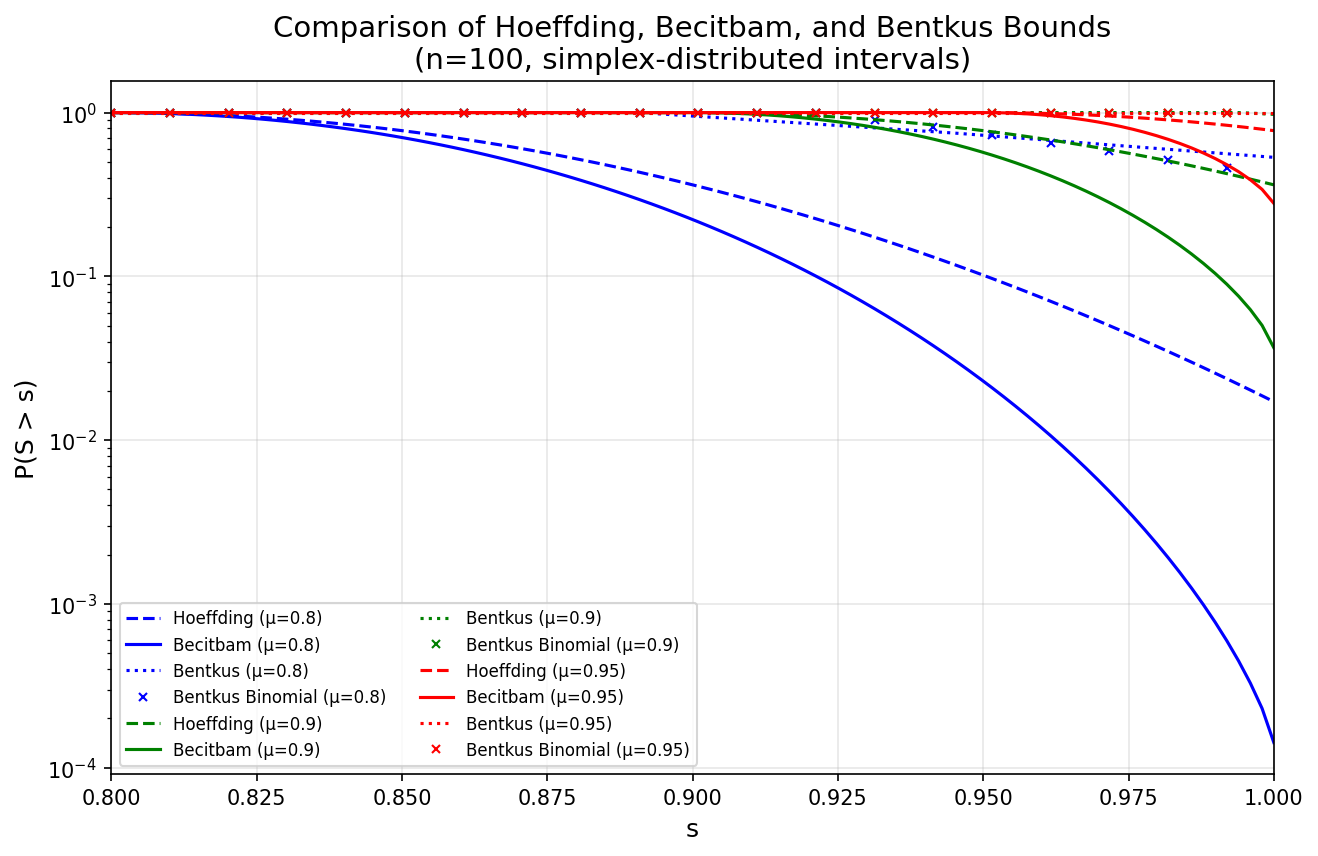
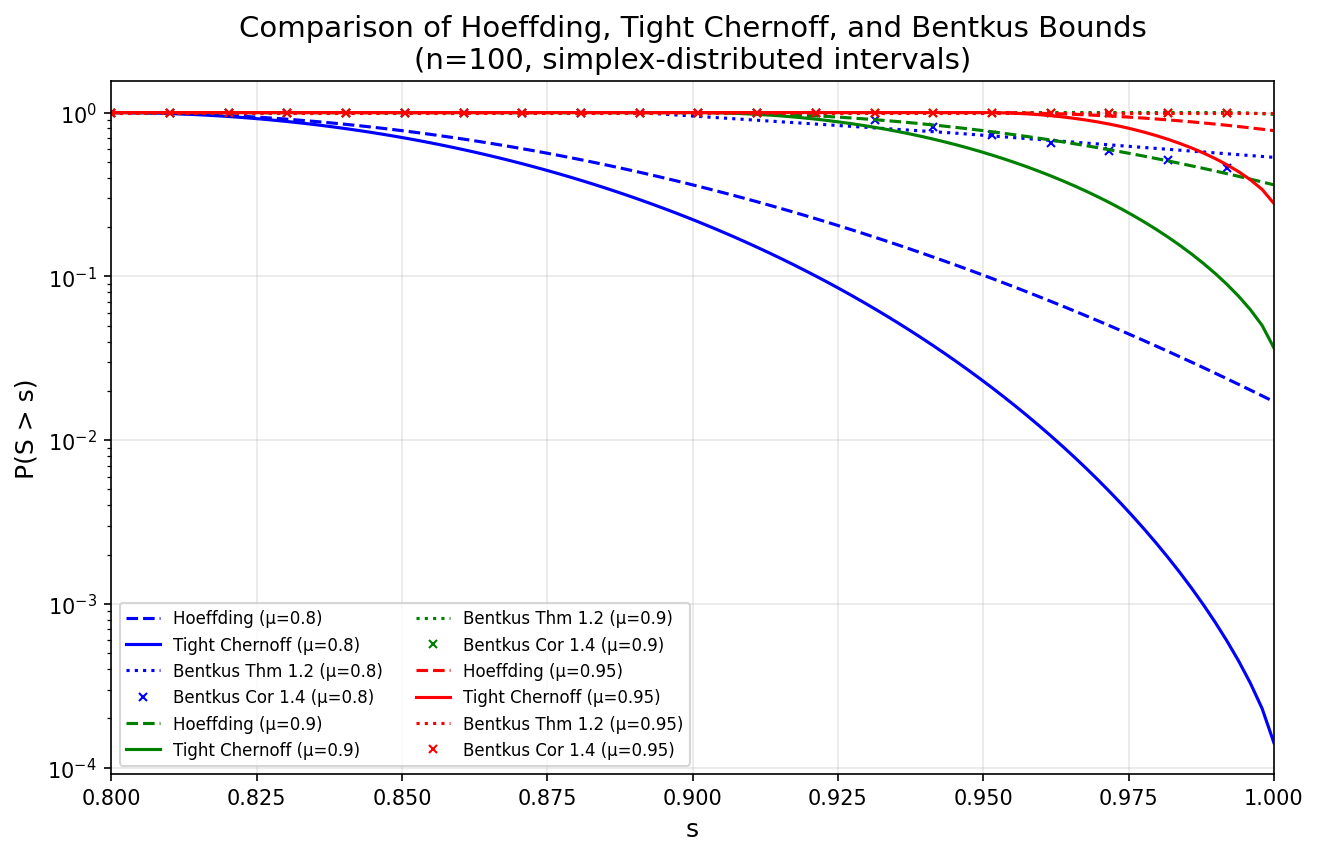
Rename labels: Becitbam→Tight Chernoff, Bentkus→Thm 1.2/Cor 1.4, update manuscript lit review

diff --git a/manuscript/main.tex b/manuscript/main.tex
@@ -71,7 +71,7 @@ We refer to Equation~\ref{eq:hoeffspecial} as the ``specialized Hoeffding inequa
 
 Several authors have proposed refinements to Hoeffding's inequality.  \citet{from2013refinement} and \citet{hertz2020improved} provide improved bounds by exploiting additional information about the distributions of the individual random variables.  However, to construct these improved bounds, it is necessary to know the per-variable means $\mathbb{E}[X_i]$ for each variable $i$.  In contrast, the bound we propose here requires only the overall mean $\mu = \sum_{i=1}^n \mathbb{E}[X_i]$, which is often the only quantity known or estimated in practice.
 
-\citet{bentkus2004hoeffding} establishes another refinement of Hoeffding's inequality that compares tail probabilities to those of a binomial distribution.  This approach requires all bounding intervals to be of the same size, i.e., $b_i = b$ for all $i$.  When the intervals are heterogeneous, the Bentkus bound can still be applied by rescaling all variables to lie within $[0, \max_i b_i]$, though this may result in a looser bound.  We include comparisons with the Bentkus bound in our simulations.
+\citet{bentkus2004hoeffding} establishes two refinements of Hoeffding's inequality that compare tail probabilities to those of binomial-type distributions.  Theorem 1.2 requires all bounding intervals to be of the same size, i.e., $b_i = b$ for all $i$, and compares to a scaled Binomial$(n, p)$ distribution.  When the intervals are heterogeneous, Theorem 1.2 can still be applied by rescaling all variables to lie within $[0, \max_i b_i]$, though this may result in a looser bound.  Corollary 1.4 offers an alternative approach using a symmetric Bernoulli comparison with RMS scale $\sqrt{\sum_i b_i^2/n}$, but it requires knowledge of each variable's centering, i.e., $|X_i - \mathbb{E}[X_i]| \leq b_i$.  Neither variant directly handles the general case of heterogeneous intervals with only the overall mean $\mu$ known.  We include comparisons with both Bentkus bounds in our simulations.
 
 In this article, we propose a computable bound for the sum of independent random variables for situations in which the expected value of the sum is known and each random variable is known to lie in a fixed interval of arbitrary size, which may differ among variables.  Such bounds are useful for hypothesis testing regarding the sum's expected value based on an observed realization.  The new bound can be calculated by solving a two-dimensional convex optimization problem.  The result reduces to Equation~\ref{eq:hoeffspecial} in the special case that $b_i=1$ for each $i \in \{1,\ldots,n\}$.  We use simulations to demonstrate that the new bound can be much tighter than the general Hoeffding inequality in situations where both are applicable and the specialized Hoeffding inequality is not.
 
@@ -154,27 +154,27 @@ This theorem suggests two methods for computing $\varphi^*$.  One method involve
 \begin{center}
 \includegraphics[width=5in]{comparisons/dirichlet_100.png}
   \caption{
-  Comparison of bounds for heterogeneous intervals.  We consider three choices of fixed expected value, $\mu \in \{0.8, 0.9, 0.95\}$.  We compare the general Hoeffding inequality \citep[Theorem 2]{hoeffding_probability_1963} (dashed lines), our new bounds (solid lines, calculated using Theorem~\ref{thm:lowd}), and the Bentkus bound \citep{bentkus2004hoeffding} (dotted lines).  Since the Bentkus bound requires homogeneous intervals, we apply it by rescaling all variables to lie within $[0, \max_i b_i]$.  Our new bound substantially outperforms both the general Hoeffding inequality and the rescaled Bentkus bound in the heterogeneous case.
+  Comparison of bounds for heterogeneous intervals.  We consider three choices of fixed expected value, $\mu \in \{0.8, 0.9, 0.95\}$.  We compare the general Hoeffding inequality \citep[Theorem 2]{hoeffding_probability_1963} (dashed lines), our new Tight Chernoff bounds (solid lines, calculated using Theorem~\ref{thm:lowd}), Bentkus Theorem 1.2 \citep{bentkus2004hoeffding} (dotted lines), and Bentkus Corollary 1.4 (×~markers).  Since Bentkus Theorem 1.2 requires homogeneous intervals, we apply it by rescaling all variables to lie within $[0, \max_i b_i]$.  Bentkus Corollary 1.4 uses RMS scale but requires centering information.  Our Tight Chernoff bound substantially outperforms both the general Hoeffding inequality and the Bentkus bounds in the heterogeneous case.
   }\label{fig:tailboundcomparisons}
 \end{center}
 \end{figure}
 
 We use simulations to assess the degree of improvement over the general Hoeffding inequality.  First, we sample a vector of interval lengths, $\boldsymbol{b} \in \mathbb{R}^{200}$, uniformly at random from the set of lengths such that $B=\sum_{i=1}^{100} b_i=1$.  We define $S$ to be the sum of 200 independent random variables, $(X_1,\ldots,X_{200})$, where each $X_i$ is constrained to the interval $[0,b_i]$ for $i\in \{1,\ldots,200\}$.  
 
-For any fixed value of $\mu$ and any value $s \geq \mu$, our new results provide an upper bound on $\mathbb{P}(S>s)$, assuming $\mathbb{E}[S]=\mu$.  The general Hoeffding inequality can also be used to produce a bound on $\mathbb{P}(S>s)$, offering a natural point of comparison.  We also compare with the Bentkus bound \citep{bentkus2004hoeffding}, which requires all bounding intervals to be of the same size.  To apply the Bentkus bound to heterogeneous intervals, we rescale all variables so that they lie within $[0, \max_i b_i]$.  These bounds on $\mathbb{P}(S>s)$ have practical implications, such as facilitating hypothesis testing for $\mathbb{E}[S]=\mu$ given an observed realization of $S$.
+For any fixed value of $\mu$ and any value $s \geq \mu$, our new results provide an upper bound on $\mathbb{P}(S>s)$, assuming $\mathbb{E}[S]=\mu$.  The general Hoeffding inequality can also be used to produce a bound on $\mathbb{P}(S>s)$, offering a natural point of comparison.  We also compare with the two Bentkus bounds \citep{bentkus2004hoeffding}: Theorem 1.2 requires all bounding intervals to be of the same size, while Corollary 1.4 uses RMS scale but requires centering information.  To apply Theorem 1.2 to heterogeneous intervals, we rescale all variables so that they lie within $[0, \max_i b_i]$.  For Corollary 1.4, we apply it using only the overall centering $S - \mu$.  These bounds on $\mathbb{P}(S>s)$ have practical implications, such as facilitating hypothesis testing for $\mathbb{E}[S]=\mu$ given an observed realization of $S$.
 
-Figure~\ref{fig:tailboundcomparisons} compares our new bounds with the general Hoeffding inequality and the rescaled Bentkus bound for $\mu \in \{0.8, 0.9, 0.95\}$, showing how they vary as a function of $s$. In many cases, our bounds are orders of magnitude tighter than those derived from the general Hoeffding inequality, demonstrating their advantage in tail estimation.  The Bentkus bound, when applied via rescaling to the heterogeneous case, does not perform as well as our method because it effectively treats all intervals as having the maximum width.
+Figure~\ref{fig:tailboundcomparisons} compares our new Tight Chernoff bounds with the general Hoeffding inequality and both Bentkus bounds for $\mu \in \{0.8, 0.9, 0.95\}$, showing how they vary as a function of $s$. In many cases, our bounds are orders of magnitude tighter than those derived from the general Hoeffding inequality, demonstrating their advantage in tail estimation.  Neither Bentkus bound performs as well as our method in the heterogeneous case: Theorem 1.2 effectively treats all intervals as having the maximum width, while Corollary 1.4 has a larger multiplicative constant and does not fully exploit the heterogeneity.
 
 \begin{figure}
 \begin{center}
 \includegraphics[width=5in]{comparisons/homogen_100.png}
   \caption{
-  Comparison of bounds for homogeneous intervals.  When all variables share the same bounding interval $[0,1]$, the specialized Hoeffding inequality (Equation~\ref{eq:hoeffspecial}) applies.  We compare the general Hoeffding inequality (``Hoeffding $\Sigma a^2$''), the specialized Hoeffding inequality (``Hoeffding KL''), our new bounds, and the Bentkus bound \citep{bentkus2004hoeffding}.  Our new bounds match the specialized Hoeffding inequality, as expected from Theorem~\ref{thm:lowd}.  Both our bounds and the Bentkus bound substantially outperform the general Hoeffding inequality.  In this homogeneous setting, all three refined methods---the specialized Hoeffding inequality, the Bentkus bound, and our new bounds---provide much tighter bounds than the general Hoeffding inequality.
+  Comparison of bounds for homogeneous intervals.  When all variables share the same bounding interval $[0,1]$, the specialized Hoeffding inequality (Equation~\ref{eq:hoeffspecial}) applies.  We compare the general Hoeffding inequality (``Hoeffding $\Sigma a^2$''), the specialized Hoeffding inequality (``Hoeffding KL''), our new Tight Chernoff bounds, Bentkus Theorem 1.2, and Bentkus Corollary 1.4.  Our Tight Chernoff bounds match the specialized Hoeffding inequality, as expected from Theorem~\ref{thm:lowd}.  In this homogeneous setting, the specialized Hoeffding inequality, the Bentkus Theorem 1.2 bound, and our Tight Chernoff bounds all provide much tighter bounds than the general Hoeffding inequality.  Bentkus Corollary 1.4 is less tight here due to its larger multiplicative constant ($2e^3/9 \approx 4.46$ vs.\ $e \approx 2.72$ for Theorem 1.2).
   }\label{fig:homogencomparisons}
 \end{center}
 \end{figure}
 
-To verify that our bounds perform well even when the Bentkus bound is directly applicable, we also consider the case of homogeneous intervals where all $b_i = 1$.  Figure~\ref{fig:homogencomparisons} shows this comparison.  In this setting, our new bounds coincide with the specialized Hoeffding inequality (Equation~\ref{eq:hoeffspecial}), as guaranteed by Theorem~\ref{thm:lowd}.  Both our bounds and the Bentkus bound are much tighter than the general Hoeffding inequality, demonstrating that all refined methods provide substantial improvements when applicable.  The key advantage of our approach is that it extends naturally to heterogeneous intervals without requiring any rescaling.
+To verify that our bounds perform well even when the Bentkus bounds are directly applicable, we also consider the case of homogeneous intervals where all $b_i = 1$.  Figure~\ref{fig:homogencomparisons} shows this comparison.  In this setting, our new Tight Chernoff bounds coincide with the specialized Hoeffding inequality (Equation~\ref{eq:hoeffspecial}), as guaranteed by Theorem~\ref{thm:lowd}.  Both our bounds and Bentkus Theorem 1.2 are much tighter than the general Hoeffding inequality, demonstrating that all refined methods provide substantial improvements when applicable.  Bentkus Corollary 1.4 is less tight in this homogeneous case because its larger prefactor ($2e^3/9 \approx 4.46$) outweighs any benefit from using RMS scale (which equals the max scale when intervals are equal).  The key advantage of our Tight Chernoff approach is that it extends naturally to heterogeneous intervals without requiring any rescaling or centering information beyond the overall mean.
 
 
 \begin{appendix}

diff --git a/comparisons/dirichlet_compare.py b/comparisons/dirichlet_compare.py
@@ -1,6 +1,6 @@
 #!/usr/bin/env python3
 """
-Compare Hoeffding, Becitbam, and Bentkus bounds for sums of bounded random variables
+Compare Hoeffding, Tight Chernoff, and Bentkus bounds for sums of bounded random variables
 where the bounds come from a Dirichlet (n-simplex) distribution.
 
 This script generates a random vector `a` from the n-simplex, considers
@@ -8,10 +8,9 @@ n independent variables where each variable X_i is bounded in [0, a_i],
 assumes the overall mean is known to be mu, and evaluates bounds on P(S > s)
 for the sum S = sum_i X_i.
 
-The Bentkus bound rescales all intervals by the maximum interval width so that
+The Bentkus Thm 1.2 bound rescales all intervals by the maximum interval width so that
 max(a_i) = 1, then compares to a Binomial(n, p) distribution where p = mu_rescaled/n.
-To avoid log-concave interpolation, Bentkus bounds are only plotted at s values
-where the rescaled s is an integer.
+The Bentkus Cor 1.4 bound uses RMS scale with symmetric Bernoulli comparison.
 """
 
 import numpy as np
@@ -50,7 +49,7 @@ def generate_simplex_vector(n, seed=42):
 
 def compute_bounds(s_values, mu, a):
     """
-    Compute Hoeffding, Becitbam, and Bentkus bounds for P(S > s).
+    Compute Hoeffding, Tight Chernoff, and Bentkus bounds for P(S > s).
     
     Parameters
     ----------
@@ -65,37 +64,37 @@ def compute_bounds(s_values, mu, a):
     -------
     hoeffding_bounds : numpy.ndarray
         Hoeffding bound on P(S > s) for each s
-    becitbam_bounds : numpy.ndarray
-        Becitbam (sharp Chernoff) bound on P(S > s) for each s
-    bentkus_bounds : numpy.ndarray
-        Bentkus bound on P(S > s) for each s (rescaled to max interval = 1)
-    bentkus_binomial_bounds : numpy.ndarray
-        Bentkus binomial bound on P(S > s) for each s (using RMS scale)
+    tight_chernoff_bounds : numpy.ndarray
+        Tight Chernoff (sharp Chernoff) bound on P(S > s) for each s
+    bentkus_thm12_bounds : numpy.ndarray
+        Bentkus Thm 1.2 bound on P(S > s) for each s (rescaled to max interval = 1)
+    bentkus_cor14_bounds : numpy.ndarray
+        Bentkus Cor 1.4 bound on P(S > s) for each s (using RMS scale)
     """
     hoeffding_bounds = []
-    becitbam_bounds = []
-    bentkus_bounds = []
-    bentkus_binomial_bounds = []
+    tight_chernoff_bounds = []
+    bentkus_thm12_bounds = []
+    bentkus_cor14_bounds = []
     
     for s in s_values:
         # Hoeffding bound (returns log probability)
         log_hoeffding = hoeffding_thm2(s, mu, a)
         hoeffding_bounds.append(np.exp(log_hoeffding))
         
-        # Becitbam sharp Chernoff bound (returns log probability)
-        log_becitbam = sharp_chernoff(s, mu, a)
-        becitbam_bounds.append(np.exp(log_becitbam))
+        # Tight Chernoff bound (returns log probability)
+        log_tight_chernoff = sharp_chernoff(s, mu, a)
+        tight_chernoff_bounds.append(np.exp(log_tight_chernoff))
         
-        # Bentkus bound (returns probability directly)
-        bentkus_prob = bentkus(s, mu, a)
-        bentkus_bounds.append(bentkus_prob)
+        # Bentkus Thm 1.2 bound (returns probability directly)
+        bentkus_thm12_prob = bentkus(s, mu, a)
+        bentkus_thm12_bounds.append(bentkus_thm12_prob)
         
-        # Bentkus binomial bound (returns probability directly)
-        bentkus_binom_prob = bentkus_binomial(s, mu, a)
-        bentkus_binomial_bounds.append(bentkus_binom_prob)
+        # Bentkus Cor 1.4 bound (returns probability directly)
+        bentkus_cor14_prob = bentkus_binomial(s, mu, a)
+        bentkus_cor14_bounds.append(bentkus_cor14_prob)
     
-    return (np.array(hoeffding_bounds), np.array(becitbam_bounds), 
-            np.array(bentkus_bounds), np.array(bentkus_binomial_bounds))
+    return (np.array(hoeffding_bounds), np.array(tight_chernoff_bounds), 
+            np.array(bentkus_thm12_bounds), np.array(bentkus_cor14_bounds))
 
 
 def main(n=100, seed=42):
@@ -131,28 +130,27 @@ def main(n=100, seed=42):
     
     for mu, color in zip(mu_values, colors):
         print(f"Computing bounds for mu={mu}...")
-        hoeffding_bounds, becitbam_bounds, bentkus_bounds, bentkus_binom_bounds = compute_bounds(s_values, mu, a)
+        hoeffding_bounds, tight_chernoff_bounds, bentkus_thm12_bounds, bentkus_cor14_bounds = compute_bounds(s_values, mu, a)
         
         # Plot Hoeffding bound (dashed line)
         ax.plot(s_values, hoeffding_bounds, '--', color=color, 
                 label=f'Hoeffding (μ={mu})', linewidth=1.5)
         
-        # Plot Becitbam bound (solid line)
-        ax.plot(s_values, becitbam_bounds, '-', color=color,
-                label=f'Becitbam (μ={mu})', linewidth=1.5)
+        # Plot Tight Chernoff bound (solid line)
+        ax.plot(s_values, tight_chernoff_bounds, '-', color=color,
+                label=f'Tight Chernoff (μ={mu})', linewidth=1.5)
         
-        # Plot Bentkus bound (dotted line)
-        # The bentkus function internally rounds s/max(a) to integer, creating step function behavior
-        ax.plot(s_values, bentkus_bounds, ':', color=color,
-                label=f'Bentkus (μ={mu})', linewidth=1.5)
+        # Plot Bentkus Thm 1.2 bound (dotted line)
+        ax.plot(s_values, bentkus_thm12_bounds, ':', color=color,
+                label=f'Bentkus Thm 1.2 (μ={mu})', linewidth=1.5)
         
-        # Plot Bentkus binomial bound (markers)
-        ax.plot(s_values, bentkus_binom_bounds, 'x', color=color,
-                label=f'Bentkus Binomial (μ={mu})', markersize=4, markevery=5)
+        # Plot Bentkus Cor 1.4 bound (markers)
+        ax.plot(s_values, bentkus_cor14_bounds, 'x', color=color,
+                label=f'Bentkus Cor 1.4 (μ={mu})', markersize=4, markevery=5)
     
     ax.set_xlabel('s', fontsize=12)
     ax.set_ylabel('P(S > s)', fontsize=12)
-    ax.set_title(f'Comparison of Hoeffding, Becitbam, and Bentkus Bounds\n(n={n}, simplex-distributed intervals)', fontsize=14)
+    ax.set_title(f'Comparison of Hoeffding, Tight Chernoff, and Bentkus Bounds\n(n={n}, simplex-distributed intervals)', fontsize=14)
     ax.legend(loc='lower left', fontsize=8, ncol=2)
     ax.set_yscale('log')
     ax.grid(True, alpha=0.3)
@@ -170,7 +168,7 @@ def main(n=100, seed=42):
 if __name__ == '__main__':
     import argparse
     
-    parser = argparse.ArgumentParser(description='Compare Hoeffding, Becitbam, and Bentkus bounds')
+    parser = argparse.ArgumentParser(description='Compare Hoeffding, Tight Chernoff, and Bentkus bounds')
     parser.add_argument('--n', type=int, default=100, help='Dimension of the simplex (default: 100)')
     parser.add_argument('--seed', type=int, default=42, help='Random seed for reproducibility (default: 42)')
     

diff --git a/comparisons/homogen_compare.py b/comparisons/homogen_compare.py
@@ -1,15 +1,16 @@
 #!/usr/bin/env python3
 """
-Compare Hoeffding (Thm 1 & 2), Becitbam, and Bentkus bounds for sums of bounded 
+Compare Hoeffding (Thm 1 & 2), Tight Chernoff, and Bentkus bounds for sums of bounded 
 random variables where all variables are in [0, 1] (homogeneous intervals).
 
 In this case:
 - Hoeffding Theorem 1 (KL-based) applies directly
 - Hoeffding Theorem 2 (sum of squares) also applies
-- Becitbam (sharp Chernoff) should match Hoeffding Theorem 1 as a sanity check
-- Bentkus bound compares to Binomial(n, p)
+- Tight Chernoff (sharp Chernoff) should match Hoeffding Theorem 1 as a sanity check
+- Bentkus Thm 1.2 bound compares to Binomial(n, p)
+- Bentkus Cor 1.4 bound uses RMS scale with symmetric Bernoulli comparison
 
-This provides a sanity check that Becitbam agrees with the KL Hoeffding bound
+This provides a sanity check that Tight Chernoff agrees with the KL Hoeffding bound
 when all intervals are equal to [0, 1].
 """
 
@@ -43,21 +44,21 @@ def compute_bounds(s_values, mu, n):
         Hoeffding Theorem 1 (KL) bound on P(S > s)
     hoeffding2_bounds : numpy.ndarray
         Hoeffding Theorem 2 (sum of squares) bound on P(S > s)
-    becitbam_bounds : numpy.ndarray
-        Becitbam (sharp Chernoff) bound on P(S > s)
-    bentkus_bounds : numpy.ndarray
-        Bentkus bound on P(S > s)
-    bentkus_binomial_bounds : numpy.ndarray
-        Bentkus binomial bound on P(S > s) (using RMS scale)
+    tight_chernoff_bounds : numpy.ndarray
+        Tight Chernoff (sharp Chernoff) bound on P(S > s)
+    bentkus_thm12_bounds : numpy.ndarray
+        Bentkus Thm 1.2 bound on P(S > s)
+    bentkus_cor14_bounds : numpy.ndarray
+        Bentkus Cor 1.4 bound on P(S > s) (using RMS scale)
     """
     # All intervals are [0, 1]
     a = np.ones(n)
     
     hoeffding1_bounds = []
     hoeffding2_bounds = []
-    becitbam_bounds = []
-    bentkus_bounds = []
-    bentkus_binomial_bounds = []
+    tight_chernoff_bounds = []
+    bentkus_thm12_bounds = []
+    bentkus_cor14_bounds = []
     
     for s in s_values:
         # Hoeffding Theorem 1 (KL-based, returns log probability)
@@ -68,21 +69,21 @@ def compute_bounds(s_values, mu, n):
         log_hoeffding2 = hoeffding_thm2(s, mu, a)
         hoeffding2_bounds.append(np.exp(log_hoeffding2))
         
-        # Becitbam sharp Chernoff bound (returns log probability)
-        log_becitbam = sharp_chernoff(s, mu, a)
-        becitbam_bounds.append(np.exp(log_becitbam))
+        # Tight Chernoff bound (returns log probability)
+        log_tight_chernoff = sharp_chernoff(s, mu, a)
+        tight_chernoff_bounds.append(np.exp(log_tight_chernoff))
         
-        # Bentkus bound (returns probability directly)
-        bentkus_prob = bentkus(s, mu, a)
-        bentkus_bounds.append(bentkus_prob)
+        # Bentkus Thm 1.2 bound (returns probability directly)
+        bentkus_thm12_prob = bentkus(s, mu, a)
+        bentkus_thm12_bounds.append(bentkus_thm12_prob)
         
-        # Bentkus binomial bound (returns probability directly)
-        bentkus_binom_prob = bentkus_binomial(s, mu, a)
-        bentkus_binomial_bounds.append(bentkus_binom_prob)
+        # Bentkus Cor 1.4 bound (returns probability directly)
+        bentkus_cor14_prob = bentkus_binomial(s, mu, a)
+        bentkus_cor14_bounds.append(bentkus_cor14_prob)
     
     return (np.array(hoeffding1_bounds), np.array(hoeffding2_bounds), 
-            np.array(becitbam_bounds), np.array(bentkus_bounds),
-            np.array(bentkus_binomial_bounds))
+            np.array(tight_chernoff_bounds), np.array(bentkus_thm12_bounds),
+            np.array(bentkus_cor14_bounds))
 
 
 def main(n=100):
@@ -114,7 +115,7 @@ def main(n=100):
     
     for mu, frac, color in zip(mu_values, mu_fractions, colors):
         print(f"Computing bounds for mu={mu} (fraction={frac})...")
-        hoeffding1, hoeffding2, becitbam, bentkus_bounds, bentkus_binom_bounds = compute_bounds(s_values, mu, n)
+        hoeffding1, hoeffding2, tight_chernoff, bentkus_thm12, bentkus_cor14 = compute_bounds(s_values, mu, n)
         
         # Plot Hoeffding Theorem 1 (KL) bound (dashed line)
         ax.plot(s_values / n, hoeffding1, '--', color=color, 
@@ -124,21 +125,21 @@ def main(n=100):
         ax.plot(s_values / n, hoeffding2, '-.', color=color, 
                 label=f'Hoeffding Σa² (μ={frac})', linewidth=1.5)
         
-        # Plot Becitbam bound (solid line)
-        ax.plot(s_values / n, becitbam, '-', color=color,
-                label=f'Becitbam (μ={frac})', linewidth=1.5)
+        # Plot Tight Chernoff bound (solid line)
+        ax.plot(s_values / n, tight_chernoff, '-', color=color,
+                label=f'Tight Chernoff (μ={frac})', linewidth=1.5)
         
-        # Plot Bentkus bound (dotted line)
-        ax.plot(s_values / n, bentkus_bounds, ':', color=color,
-                label=f'Bentkus (μ={frac})', linewidth=1.5)
+        # Plot Bentkus Thm 1.2 bound (dotted line)
+        ax.plot(s_values / n, bentkus_thm12, ':', color=color,
+                label=f'Bentkus Thm 1.2 (μ={frac})', linewidth=1.5)
         
-        # Plot Bentkus binomial bound (markers)
-        ax.plot(s_values / n, bentkus_binom_bounds, 'x', color=color,
-                label=f'Bentkus Binomial (μ={frac})', markersize=4, markevery=5)
+        # Plot Bentkus Cor 1.4 bound (markers)
+        ax.plot(s_values / n, bentkus_cor14, 'x', color=color,
+                label=f'Bentkus Cor 1.4 (μ={frac})', markersize=4, markevery=5)
         
-        # Sanity check: Becitbam should match Hoeffding KL
-        max_diff = np.max(np.abs(hoeffding1 - becitbam))
-        print(f"  Max |Hoeffding KL - Becitbam| = {max_diff:.2e}")
+        # Sanity check: Tight Chernoff should match Hoeffding KL
+        max_diff = np.max(np.abs(hoeffding1 - tight_chernoff))
+        print(f"  Max |Hoeffding KL - Tight Chernoff| = {max_diff:.2e}")
     
     ax.set_xlabel('s/n (normalized threshold)', fontsize=12)
     ax.set_ylabel('P(S > s)', fontsize=12)
